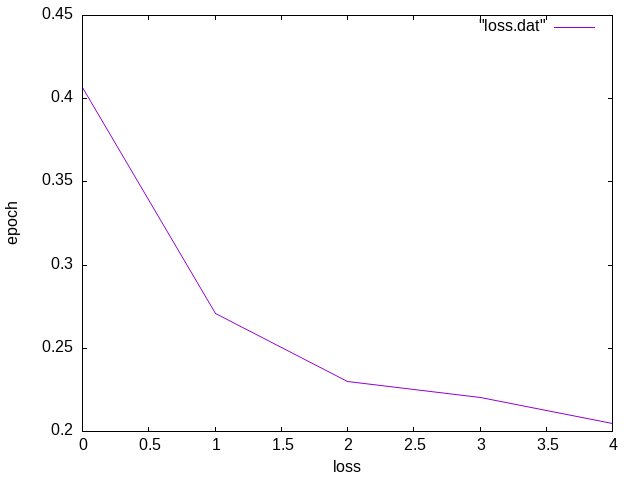
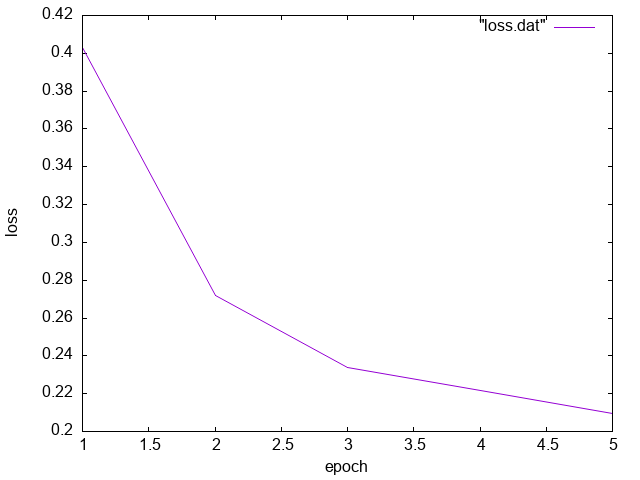
Added transfer learning as a subproj and fixed the loss plot.

diff --git a/transfer/transfer.cpp b/transfer/transfer.cpp
@@ -143,7 +143,7 @@ int main()
         }
 	const double avgLoss = cumloss / (double)n;
         progress(epoch, epochs, avgLoss);
-	floss << avgLoss << std::endl;
+	floss << epoch << "\t" << avgLoss << std::endl;
         std::cout << std::endl;
     }
     std::cout << "Done.\n";

diff --git a/transfer/README.md b/transfer/README.md
@@ -9,6 +9,7 @@ Learns to distinguish between cats and dogs.
 ## Load the dataset from Kaggle
 
 ```
+pip install kagglehub
 python get_cats_dogs.py
 ```
 
